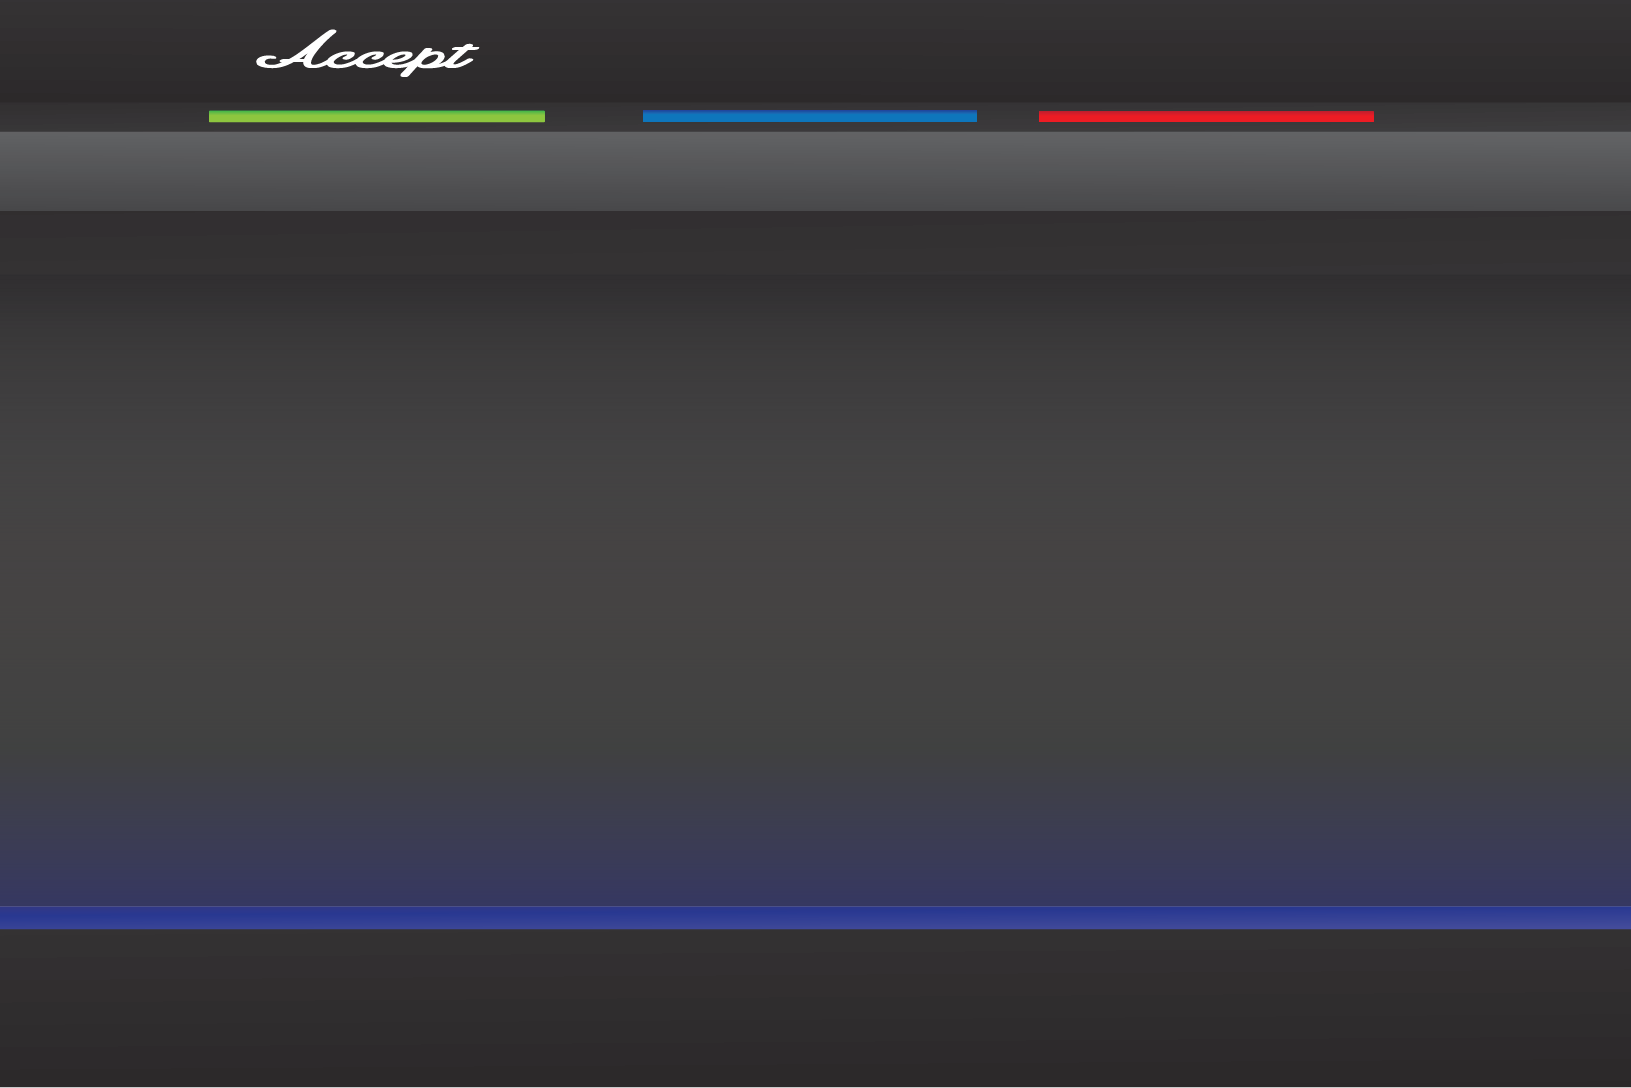
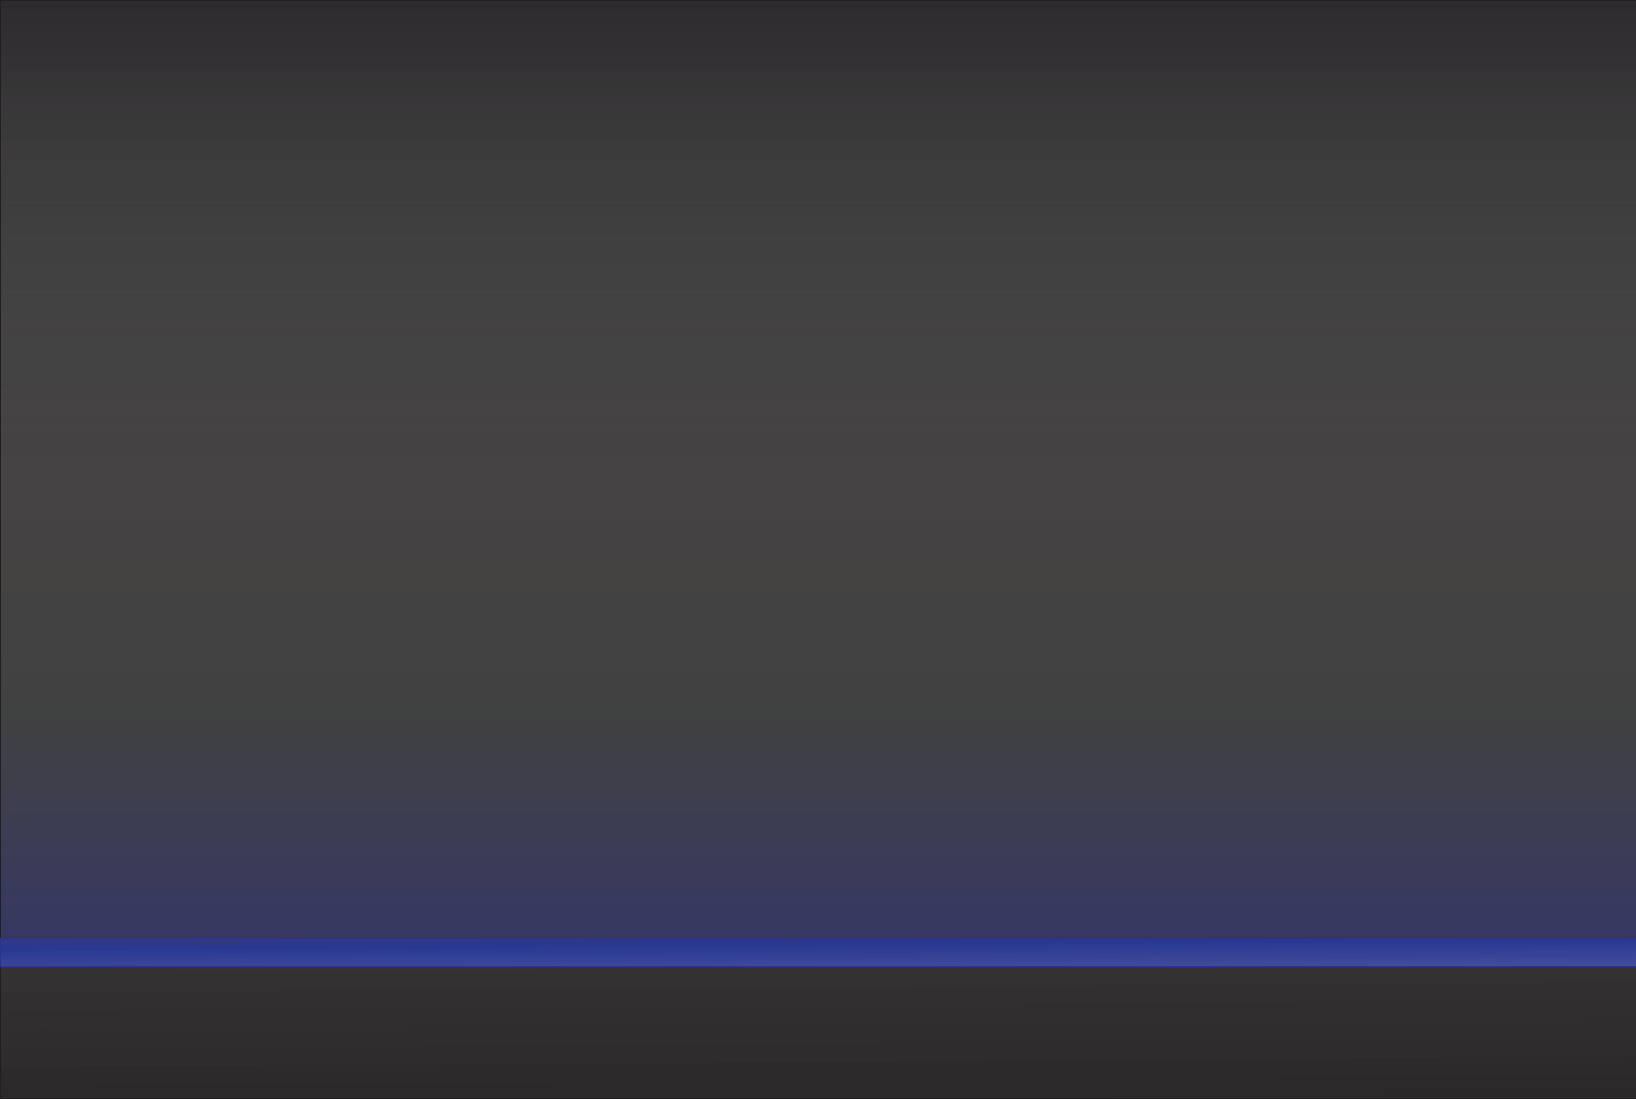
09/09 mockup

Changed region(s): [[0.0, 0.8125, 1.0, 0.9062], [0.0, 0.0938, 1.0, 0.1875], [0.1533, 0.0312, 0.3066, 0.0625]]

diff --git a/projetinho/contato.html b/projetinho/contato.html
@@ -9,15 +9,6 @@
   <body class="headphoto">
     <div>
       <main>
-        <div class="Homepage">
-          <A HREF="homepage.html"><IMG BORDER="0" SRC="img/Homepage_button.png"></A>
-        </div>
-        <div class="Meus_p">
-          <A HREF="taxonomia.html"><IMG BORDER="0" SRC="img/Meus_projetos_button.png"></A>
-        </div> 
-        <div class="Sobre_mim">
-          <A HREF="contato.html"><IMG BORDER="0" SRC="img/Sobre_mim.png"></A>
-        </div>
         <div class="Textos">
          <p>
           Man braid ennui before they sold out ethical VHS affogato. Knausgaard 
@@ -47,9 +38,22 @@
           sold out actually kogi ennui pabst polaroid man braid tilde plaid bespoke cred.
          </p>
         </div>
+
         <div class="contact_photo">   
             <img src="img/a.png" alt="">
-        </div>  
+        </div> 
+        <div class="heading1">
+            <img src="img/Header.png">
+        </div> 
+        <div class="Homepage">
+          <A HREF="homepage.html"><IMG BORDER="0" SRC="img/Homepage.png"></A>
+        </div>
+        <div class="Meus_p">
+          <A HREF="taxonomia.html"><IMG BORDER="0" SRC="img/Meus_projetos.png"></A>
+        </div> 
+        <div class="Sobre_mim">
+          <A HREF="contato.html"><IMG BORDER="0" SRC="img/Contato.png"></A>
+        </div>     
         <div class="copyright">  
           <p id = "footer">&copy; Access Group</p>
         </div>   

diff --git a/projetinho/taxonomia.html b/projetinho/taxonomia.html
@@ -9,16 +9,6 @@
   <body class="headphoto">
     <div>
       <main>
-        <div class="Homepage">
-          <A HREF="homepage.html"><IMG BORDER="0" SRC="img/Homepage_button.png"></A>
-        </div>
-        <div class="Meus_p">
-          <A HREF="taxonomia.html"><IMG BORDER="0" SRC="img/Meus_projetos_button.png"></A>
-        </div> 
-        <div class="Sobre_mim">
-          <A HREF="contato.html"><IMG BORDER="0" SRC="img/Sobre_mim.png"></A>
-        </div>  
-        
         <div class="analise_de_dados">   
             <img src="img/analise.png" alt="">
         </div>
@@ -34,6 +24,18 @@
         <div class="programação">   
             <img src="img/programação.png" alt="">
         </div>
+        <div class="heading1">
+            <img src="img/Header.png">
+        </div> 
+        <div class="Homepage">
+          <A HREF="homepage.html"><IMG BORDER="0" SRC="img/Homepage.png"></A>
+        </div>
+        <div class="Meus_p">
+          <A HREF="taxonomia.html"><IMG BORDER="0" SRC="img/Meus_projetos.png"></A>
+        </div> 
+        <div class="Sobre_mim">
+          <A HREF="contato.html"><IMG BORDER="0" SRC="img/Contato.png"></A>
+        </div>    
         <div class="copyright">  
           <p id = "footer">&copy; Access Group</p>
         </div>   

diff --git a/projetinho/homepage.html b/projetinho/homepage.html
@@ -9,15 +9,6 @@
   <body class="headphoto">
     <div>
       <main>
-        <div class="Homepage">
-          <A HREF="homepage.html"><IMG BORDER="0" SRC="img/Homepage_button.png"></A>
-        </div>
-        <div class="Meus_p">
-          <A HREF="taxonomia.html"><IMG BORDER="0" SRC="img/Meus_projetos_button.png"></A>
-        </div> 
-        <div class="Sobre_mim">
-          <A HREF="contato.html"><IMG BORDER="0" SRC="img/Sobre_mim.png"></A>
-        </div>  
         <div class="main_img">   
             <img src="img/a.png" alt="">
         </div>
@@ -51,6 +42,18 @@
             twee, chambray ramps fanny pack tote bag.
           </p>
         </div>
+        <div class="heading1">
+            <img src="img/Header.png">
+        </div> 
+        <div class="Homepage">
+          <A HREF="homepage.html"><IMG BORDER="0" SRC="img/Homepage.png"></A>
+        </div>
+        <div class="Meus_p">
+          <A HREF="taxonomia.html"><IMG BORDER="0" SRC="img/Meus_projetos.png"></A>
+        </div> 
+        <div class="Sobre_mim">
+          <A HREF="contato.html"><IMG BORDER="0" SRC="img/Contato.png"></A>
+        </div>    
         <div class="copyright">  
           <p id = "footer">&copy; Access Group</p>
         </div>  

diff --git a/projetinho/css/estilo.css b/projetinho/css/estilo.css
@@ -8,10 +8,19 @@ div {
     min-width: 100%;
     height: auto;
     width: auto;
-    background-image: url('https://s25.postimg.org/s4jmmhfjj/Untitled.png');
+    background-image: url('https://s25.postimg.org/zabu8b5kf/Untitled.png');
     background-size: cover;
     margin: 0;
 }
+
+.heading1 {
+    min-height: 100%;
+    min-width: 100%;
+    height: auto;
+    width: auto;
+    position: fixed;
+}
+
 
 .menuitem {
     border: 1px solid black;
@@ -32,7 +41,7 @@ div {
 .copyright {
 	position: absolute;
 	color: #FFFFFF;
-    top: 1100px;
+    top: 1120px;
     left: 50px;
 }
 
@@ -45,23 +54,23 @@ div {
 }
 
 .Homepage {
-    position: absolute;
-    top: 165px;
-    left: 270px;
+    position: fixed;
+    top: 79px;
+    left: 620px;
 
 }
 
 .Meus_p {
-    position: absolute;
-    top: 165px;
-    left: 770px;
+    position: fixed;
+    top: 79px;
+    left: 827px;
 
 }
 
 .Sobre_mim {
-    position: absolute;
-    top: 165px;
-    left: 1230px;
+    position: fixed;
+    top: 79px;
+    left: 1046px;
 
 }
 
